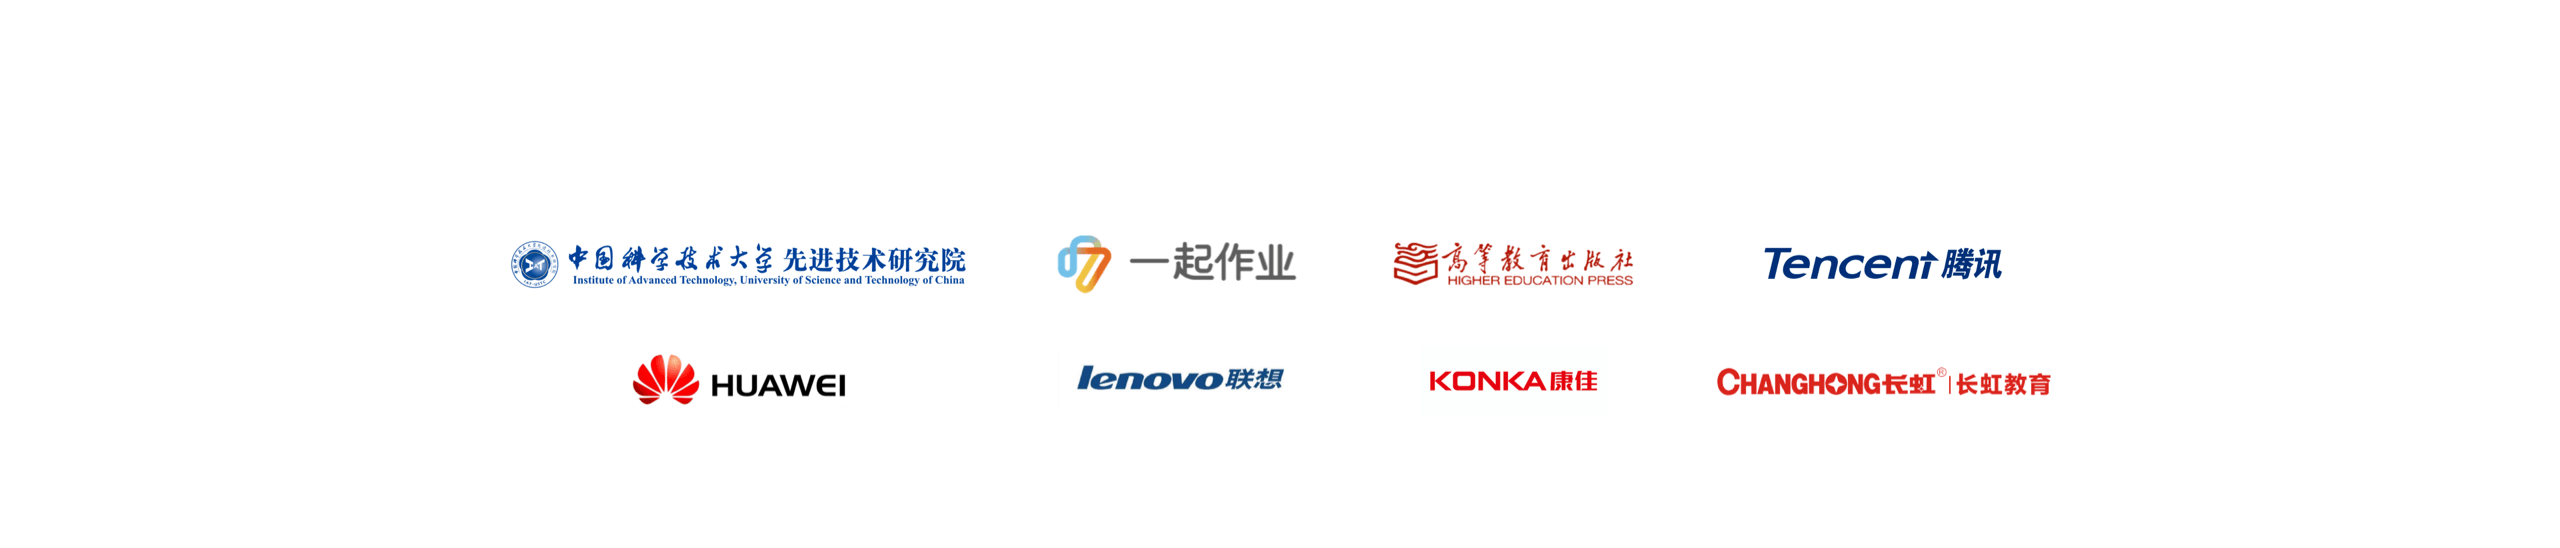
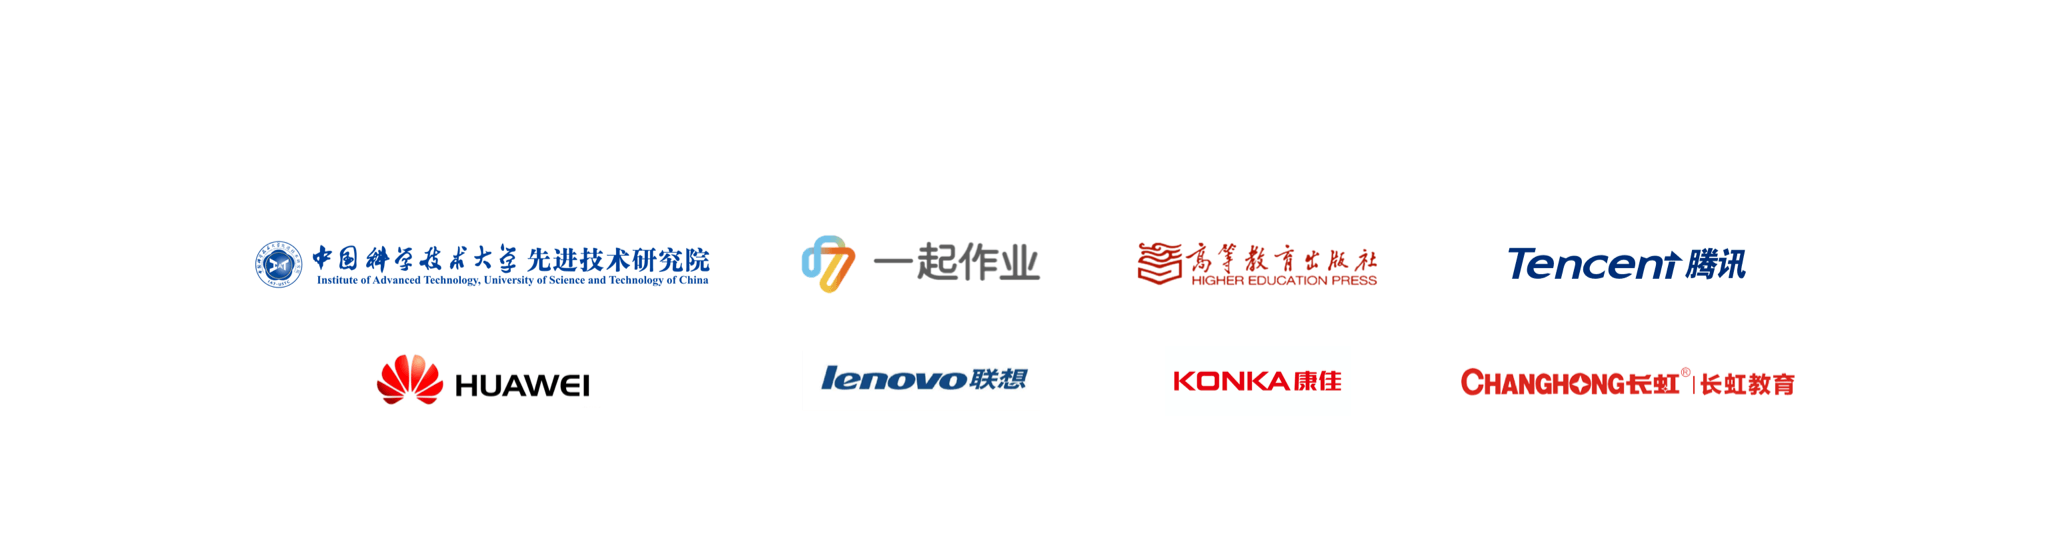
update：首页数据连接图片尺寸修改

diff --git a/src/home-page/css/c30@large.css b/src/home-page/css/c30@large.css
@@ -135,20 +135,21 @@
 }
 .section7 .gallery{
     height: 577px;
-    width: 100%;
-    background-image: url("../img/home/equipment.png");
+    width: 1024px;
+    background-image: url("../img/home/equipment1024.png");
     background-size: 100% 100%;
     background-repeat:no-repeat;
-    margin-top: 24px;
+    margin: 24px auto 0 auto;
 }
 
 .cooperation-section{
-    width: 100%;
+    width: 1024px;
     height: 273px;
     position: relative;
     background-image: url("../img/home/cooperation1024.png");
     background-size: 100% 100%;
     background-repeat:no-repeat;
+    margin: 0 auto;
 }
 .cooperationContent{
     position: absolute;

diff --git a/src/home-page/css/c30@medium.css b/src/home-page/css/c30@medium.css
@@ -129,20 +129,21 @@
 }
 .section7 .gallery{
     height: 405px;
-    width: 100%;
-    background-image: url("../img/home/equipment.png");
+    width: 700px;
+    background-image: url("../img/home/equipment700.png");
     background-size: 100% 100%;
     background-repeat:no-repeat;
-    margin-top: 24px;
+    margin: 24px auto 0 auto;
 }
 
 .cooperation-section{
-    width: 100%;
+    width: 700px;
     height: 253px;
     position: relative;
     background-image: url("../img/home/cooperation700.png");
     background-size: 100% 100%;
     background-repeat:no-repeat;
+    margin: 0 auto;
 }
 .cooperationContent{
     position: absolute;

diff --git a/src/home-page/css/c30@small.css b/src/home-page/css/c30@small.css
@@ -131,19 +131,20 @@
 }
 .section7 .gallery{
     height: 185px;
-    width: 100%;
-    background-image: url("../img/home/equipment.png");
+    width: 320px;
+    background-image: url("../img/home/equipment320.png");
     background-size: 100% 100%;
     background-repeat:no-repeat;
-    margin-top: 24px;
+    margin: 24px auto 0 auto;
 }
 .cooperation-section{
-    width: 100%;
+    width: 320px;
     height: 334px;
     position: relative;
     background-image: url("../img/home/cooperation320.png");
     background-size: 100% 100%;
     background-repeat:no-repeat;
+    margin: 0 auto;
 }
 .cooperationContent{
     position: absolute;

diff --git a/src/home-page/css/c30@xx-large.css b/src/home-page/css/c30@xx-large.css
@@ -130,21 +130,22 @@
     margin-top: 15px;
 }
 .section7 .gallery{
-    width: 100%;
+    width: 1380px;
     height: 764px;
     background-image: url("../img/home/equipment.png");
     background-size: 100% 100%;
     background-repeat:no-repeat;
-    margin-top: 23px;
+    margin: 23px auto 0 auto;
 }
 
 .cooperation-section{
-    width: 100%;
+    width: 1380px;
     height: 410px;
     position: relative;
     background-image: url("../img/home/cooperation.png");
     background-size: 100% 100%;
     background-repeat:no-repeat;
+    margin: 0 auto;
 }
 .cooperationContent{
     position: absolute;
